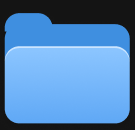
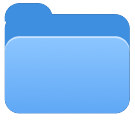
Flebo trust-failures figure rebuilt; case study footer fixes
- Flebo: the four trust failures are now live notes over the lab listing
  and the Basic Health Package card (two WebP assets), scaled as one
  composition; on narrow screens the notes drop below as a list.
- Footers (all case studies): transparent folder icon; the icon and
  "back to the folder" link to the projects desk (new #work anchor on the
  homepage); copyright line matches "back to desk" in size and baseline;
  back_to_folder_click tracked.
- Kargo: footer in the closing section's lime with dark text, zig-zag
  overlaps the black section so no page background shows between teeth.
- Kargo before/after: phones, chips and captions aligned to the text edge.

diff --git a/case.css b/case.css
@@ -131,13 +131,19 @@ img { max-width: none; }
 .next { display: flex; align-items: center; gap: 34px; padding: 120px 0 150px; }
 .folder { width: 84px; }
 .next-label { font-size: 16px; font-weight: 600; }
-.next-label span { color: #8d8d8d; font-weight: 400; }
+.next-label .folder-link { color: #8d8d8d; font-weight: 400; text-decoration: none; }
+.folder-link { flex: none; line-height: 0; }
+.next-label .folder-link, .next-link, .foot-row a { text-underline-offset: 4px; }
+.next-label .folder-link:hover, .next-link:hover, .foot-row a:hover { text-decoration: underline; }
+.folder { height: auto; transition: transform 0.2s ease; }
+.folder-link:hover .folder { transform: translateY(-3px); }
 .next-link { display: inline-block; margin-top: 10px; font-size: clamp(36px, 4vw, 58px); color: #fff; text-decoration: none; letter-spacing: -1px; }
 .foot-row {
   display: flex; justify-content: space-between; align-items: center;
   border-top: 1px solid rgba(255, 255, 255, 0.14); padding: 26px 0 34px; font-size: 14px; color: #9a9a9a;
 }
 .foot-row a { color: #d8d8d8; text-decoration: none; }
+.cs .foot-row p { margin: 0; font-size: 14px; line-height: 1.4; } /* same size and baseline as "back to desk" */
 
 /* reveals */
 @media (prefers-reduced-motion: no-preference) {
@@ -331,10 +337,11 @@ img { max-width: none; }
 
 /* Kargo360 page accents: peach heading highlight, red footer */
 body.kargo h2.hl { background: #fcc8a3; }
-body.kargo .zig { background: conic-gradient(from 135deg at 50% 0%, #ee4a4a 90deg, #0000 0) 0 0 / 64px 30px repeat-x; margin-top: 0; }
-body.kargo .cs-footer { background: #ee4a4a; }
-body.kargo .foot-row { border-top-color: rgba(255, 255, 255, 0.35); color: #ffe3e3; }
-body.kargo .foot-row a, body.kargo .next-label span { color: #ffe3e3; }
+body.kargo .zig { background: conic-gradient(from 135deg at 50% 0%, #d6e03d 90deg, #0000 0) 0 0 / 64px 30px repeat-x; margin-top: -30px; position: relative; } /* overlaps the closing section so black fills the gaps */
+body.kargo .cs-footer { background: #d6e03d; color: #141414; } /* the lime of "right complexity visible" */
+body.kargo .next-link { color: #141414; }
+body.kargo .foot-row { border-top-color: rgba(20, 20, 20, 0.25); color: #3a3d12; }
+body.kargo .foot-row a, body.kargo .next-label .folder-link { color: #3a3d12; }
 body.kargo .closing { margin-top: 110px; }
 .stats.divided .stat { padding-left: 22px; border-left: 3px solid #e02020; }
 .stats.divided .stat:first-child { padding-left: 0; border-left: 0; }
@@ -351,20 +358,21 @@ h3.green { color: #2e7d32; }
 
 /* before / after: two phones side by side, each with a chip tag and its caption beneath */
 .ba { display: grid; grid-template-columns: 1fr 1fr; gap: 40px; margin-top: 44px; }
-.ba figure { padding-left: 32px; }
 .ba-tag {
   display: inline-block; padding: 3px 10px; background: #111; color: #fff;
   font-size: 12px; font-weight: 700; letter-spacing: 2px; text-transform: uppercase;
 }
 .ba-tag.after { background: #2e5e3a; }
-.ba img { display: block; width: 356px; max-width: 100%; height: auto; margin-top: 18px; }
+/* the frame images carry ~3.8% transparent margin left of the side buttons; pull it back
+   so the phone lines up with the chip and caption on the text edge */
+.ba img { display: block; width: 356px; max-width: 100%; height: auto; margin-top: 18px; translate: -3.8% 0; }
 .ba .cap { max-width: 340px; margin-top: 22px; }
 .ba .cap h6 { font-size: 20px; font-weight: 700; letter-spacing: -0.2px; }
 .cs .ba .cap p { margin-top: 6px; font-size: 15.5px; line-height: 1.5; color: #55534c; }
 
 /* the delete dialog, in the same phone frame */
 body.kargo .side-fig { grid-template-columns: 360px 1fr; align-items: center; }
-body.kargo .side-fig .fig { width: 100%; height: auto; }
+body.kargo .side-fig .fig { width: 100%; height: auto; translate: -3.8% 0; }
 body.kargo .annots div { border-left-color: #d6e03d; padding-left: 20px; margin-top: 24px; }
 body.kargo .annots h6 { font-size: 18px; }
 .cs.kargo .annots p { font-size: 15.5px; }
@@ -426,7 +434,6 @@ body.kargo .notes h5 { font-size: 17px; }
 
 @media (max-width: 900px) {
   .ba { grid-template-columns: 1fr; gap: 56px; }
-  .ba figure { padding-left: 0; }
   body.kargo .side-fig { grid-template-columns: 1fr; }
   body.kargo .side-fig .fig { max-width: 320px; }
   .obj-row { grid-template-columns: 1fr; gap: 6px; }
@@ -438,3 +445,37 @@ body.kargo .rules-list h5::before, body.kargo .notes h5::before {
   vertical-align: 0.18em; background: #1faa3b;
 }
 body.kargo .notes h5::before { width: 7px; height: 7px; margin-right: 10px; background: #2e5e3a; }
+
+/* ===== Flebo: "four trust failures" — notes pinned over the lab listing + package card =====
+   Everything is placed on a 1810x935 design canvas (percentages) and sized in cqw of the
+   figure, so the composition scales as one piece. 1 design px = 0.05525cqw. */
+.tf { position: relative; container-type: inline-size; }
+.tf-stage { position: relative; aspect-ratio: 1810 / 935; }
+.tf-stage img { position: absolute; display: block; height: auto; }
+.tf-shot { left: 19.448%; top: 5.027%; width: 61.547%; }
+.tf-card { left: 1.215%; top: 52.193%; width: 23.094%; border-radius: 1.3cqw; }
+.tf-note {
+  position: absolute; left: var(--x); top: var(--y); width: var(--w);
+  padding: var(--pt, 0.95cqw) var(--pr, 1.99cqw) var(--pb, 1.1cqw) var(--pl, 1.99cqw); background: #fdf5a5;
+}
+.tf-note::before {  /* a strip of tape */
+  content: ""; position: absolute; left: var(--tape, 40%); top: -0.61cqw;
+  width: 3.87cqw; height: 0.72cqw; background: rgba(247, 230, 150, 0.8);
+}
+.tf-note:not([style*="--tape"])::before { display: none; }
+.tf-note h5 { position: relative; font-size: 1.265cqw; line-height: 1.3; font-weight: 700; letter-spacing: -0.02em; color: #141414; }
+.tf-note h5::before {
+  content: ""; position: absolute; left: var(--bx, -1.1cqw); top: 0.42em; width: 0.77cqw; height: 0.77cqw; background: #dd524c;
+}
+.cs .tf-note p { margin-top: 0.5cqw; max-width: none; font-size: 1.1cqw; line-height: 1.42cqw; color: #5f5d54; }
+.tf-corner { position: absolute; left: 18.343%; top: 2.995%; width: 1.99cqw; height: 1.99cqw; border-top: max(2px, 0.17cqw) solid #141414; border-left: max(2px, 0.17cqw) solid #141414; }
+
+/* narrow screens: the notes can't stay legible at composition scale, so they
+   drop below the pictures as a list */
+@media (max-width: 900px) {
+  .tf-note { position: relative; left: auto; top: auto; width: auto; margin-top: 14px; padding: 14px 18px 16px 34px; }
+  .tf-note::before { display: none; }
+  .tf-note h5 { font-size: 16px; }
+  .tf-note h5::before { left: -18px; width: 9px; height: 9px; }
+  .cs .tf-note p { margin-top: 6px; font-size: 15px; line-height: 1.45; }
+}

diff --git a/flebo.html b/flebo.html
@@ -9,8 +9,8 @@
 <link rel="preconnect" href="https://fonts.googleapis.com">
 <link rel="preconnect" href="https://fonts.gstatic.com" crossorigin>
 <link href="https://fonts.googleapis.com/css2?family=Archivo:wght@400;600;700;800&display=swap" rel="stylesheet">
-<link rel="stylesheet" href="case.css?v=20260923i">
-<script src="analytics.js?v=20260923b" defer></script>
+<link rel="stylesheet" href="case.css?v=20260923o">
+<script src="analytics.js?v=20260923c" defer></script>
 </head>
 <body class="cs" data-page="flebo" data-case="Flebo">
 <div class="cs-page">
@@ -79,7 +79,19 @@
     <h4>What we discovered</h4>
     <p>User were actively looking for packages but it was too difficult to understand what package is providing which test and even someone moves forward after selecting a package it was the lab listing page which shows multiple labs providing the selected package. But every lab is providing different number of tests and pricing is also different.</p>
     <blockquote>The audit found four trust failures, all variations of one theme &mdash; numbers without context:</blockquote>
-    <img class="fig" src="assets/flebo/packages.jpg" alt="Flebo package cards annotated with the four trust failures">
+    <!-- The four trust failures, pinned as notes over the lab listing and the package card
+         (positions on a 1810x935 design canvas) -->
+    <figure class="fig tf">
+      <div class="tf-stage">
+        <img class="tf-shot" src="assets/flebo/listing.webp" width="1600" height="961" loading="lazy" alt="Flebo lab listing for Basic Health Monitoring Tests: removable test pills above a table of labs, each offering its own version of the package with a different test count and price">
+        <img class="tf-card" src="assets/flebo/package-card.webp" width="1029" height="687" loading="lazy" alt="Basic Health Package card: Test Included: 50, up to 62% off, ₹1300 now ₹499">
+      </div>
+      <div class="tf-note" style="--x:1.215%;--y:7.273%;--w:22.376%;--tape:41%"><h5>the hierarchy was invisible.</h5><p>Those pills were test categories; the 58 were parameters inside. The data existed, but the structure was never disclosed.</p></div>
+      <div class="tf-note" style="--x:70.276%;--y:2.46%;--w:28.287%;--tape:36%;--pt:2.1cqw;--pb:1.66cqw;--pl:2.82cqw;--pr:1.66cqw;--bx:-1.38cqw"><h5>the edit feature created fear, not flexibility.</h5><p>Removable pills let non-experts delete tests silently with no confirmation or undo.</p></div>
+      <div class="tf-note" style="--x:11.436%;--y:79.572%;--w:22.431%;--pl:2.15cqw;--pr:2.76cqw"><h5>&ldquo;50 tests&rdquo; meant nothing.</h5><p>Package cards showed a high test count, but detail pages had only 5&ndash;6 pills. Claiming 50 but showing 6 feels deceptive in healthcare.</p></div>
+      <div class="tf-note" style="--x:71.768%;--y:63.957%;--w:25.635%;--tape:36%;--pl:2.93cqw;--pr:3.87cqw;--bx:-1.38cqw"><h5>labs vary, and nobody said so.</h5><p>One lab's CBC has 18 parameters, another's 24. Users thought they were comparing like for like but felt misled after choosing based on price.</p></div>
+      <span class="tf-corner" aria-hidden="true"></span>
+    </figure>
 
     <h2 class="hl">What I learned and fixed</h2>
     <h3>Phase 1: Solving the Clarity Gap</h3>
@@ -206,9 +218,9 @@
   <footer class="cs-footer">
     <div class="wrap">
       <div class="next">
-        <img class="folder" src="assets/flebo/folder.png" alt="">
+        <a class="folder-link" href="./#work" aria-label="Back to the projects folder"><img class="folder" src="assets/flebo/folder.png?v=2" alt="" width="135" height="120"></a>
         <div>
-          <p class="next-label">next up - Menteiz Aviation &nbsp;<span>/ back to the folder</span></p>
+          <p class="next-label">next up - Menteiz Aviation &nbsp;<a class="folder-link" href="./#work">/ back to the folder</a></p>
           <a class="next-link" href="menteiz.html">Menteiz Aviation &rarr;</a>
         </div>
       </div>

diff --git a/menteiz.html b/menteiz.html
@@ -9,8 +9,8 @@
 <link rel="preconnect" href="https://fonts.googleapis.com">
 <link rel="preconnect" href="https://fonts.gstatic.com" crossorigin>
 <link href="https://fonts.googleapis.com/css2?family=Archivo:wght@300;400;600;700;800&family=Homemade+Apple&display=swap" rel="stylesheet">
-<link rel="stylesheet" href="case.css?v=20260923i">
-<script src="analytics.js?v=20260923b" defer></script>
+<link rel="stylesheet" href="case.css?v=20260923o">
+<script src="analytics.js?v=20260923c" defer></script>
 </head>
 <body class="cs" data-page="menteiz" data-case="Menteiz Aviation">
 <div class="cs-page">
@@ -254,9 +254,9 @@
   <footer class="cs-footer">
     <div class="wrap">
       <div class="next">
-        <img class="folder" src="assets/flebo/folder.png" alt="">
+        <a class="folder-link" href="./#work" aria-label="Back to the projects folder"><img class="folder" src="assets/flebo/folder.png?v=2" alt="" width="135" height="120"></a>
         <div>
-          <p class="next-label">next up - Kargo360 &nbsp;<span>/ back to the folder</span></p>
+          <p class="next-label">next up - Kargo360 &nbsp;<a class="folder-link" href="./#work">/ back to the folder</a></p>
           <a class="next-link" href="kargo360.html">Kargo360 &rarr;</a>
         </div>
       </div>

diff --git a/kargo360.html b/kargo360.html
@@ -9,8 +9,8 @@
 <link rel="preconnect" href="https://fonts.googleapis.com">
 <link rel="preconnect" href="https://fonts.gstatic.com" crossorigin>
 <link href="https://fonts.googleapis.com/css2?family=Archivo:wght@300;400;600;700;800&family=Homemade+Apple&display=swap" rel="stylesheet">
-<link rel="stylesheet" href="case.css?v=20260923i">
-<script src="analytics.js?v=20260923b" defer></script>
+<link rel="stylesheet" href="case.css?v=20260923o">
+<script src="analytics.js?v=20260923c" defer></script>
 </head>
 <body class="cs kargo" data-page="kargo360" data-case="Kargo360">
 <div class="cs-page">
@@ -252,9 +252,9 @@
   <footer class="cs-footer">
     <div class="wrap">
       <div class="next">
-        <img class="folder" src="assets/flebo/folder.png" alt="">
+        <a class="folder-link" href="./#work" aria-label="Back to the projects folder"><img class="folder" src="assets/flebo/folder.png?v=2" alt="" width="135" height="120"></a>
         <div>
-          <p class="next-label">next up - Flebo &nbsp;<span>/ back to the folder</span></p>
+          <p class="next-label">next up - Flebo &nbsp;<a class="folder-link" href="./#work">/ back to the folder</a></p>
           <a class="next-link" href="flebo.html">Flebo &rarr;</a>
         </div>
       </div>

diff --git a/index.html b/index.html
@@ -9,8 +9,8 @@
 <link rel="preconnect" href="https://fonts.googleapis.com">
 <link rel="preconnect" href="https://fonts.gstatic.com" crossorigin>
 <link href="https://fonts.googleapis.com/css2?family=Archivo:wght@400;500;600;700&family=Homemade+Apple&family=Poppins&display=swap" rel="stylesheet">
-<link rel="stylesheet" href="styles.css?v=20260923a">
-<script src="analytics.js?v=20260923b" defer></script>
+<link rel="stylesheet" href="styles.css?v=20260923b">
+<script src="analytics.js?v=20260923c" defer></script>
 </head>
 <body data-page="home">
 <div class="stage">
@@ -54,6 +54,7 @@
   <div class="hero-photo-7-wrap rot-wrap"><img class="hero-photo-7" src="assets/hero-photo-2.png" alt=""></div>
 
   <!-- ===== Projects section (macOS desktop theme) ===== -->
+  <span id="work" class="section-anchor" style="top:1694px" aria-hidden="true"></span><!-- target of the case studies' "back to the folder" (./#work) -->
   <img class="projects-bg" src="assets/projects-bg.jpg" alt="">
   <div class="projects-heading">
     <h2 class="projects-title">projects</h2>

diff --git a/styles.css b/styles.css
@@ -143,6 +143,8 @@ a { color: inherit; text-decoration: none; }
 /* ===== Projects — macOS desktop theme (1694 – 2738) =====
    Geometry and imagery from the Figma frame; bitmaps exported at 2x. */
 
+.section-anchor { position: absolute; left: 0; width: 1px; height: 1px; pointer-events: none; }
+
 .projects-bg { position: absolute; left: -5px; top: 1694px; width: 1449px; height: 1044px; object-fit: cover; }
 
 .projects-heading { position: absolute; left: 50%; transform: translateX(-50%); top: 1741px; text-align: center; }

diff --git a/analytics.js b/analytics.js
@@ -60,6 +60,7 @@
     if (a.matches('.pj-slide') && proj) return track(proj + '_case_study_click');
 
     // Case study pages
+    if (a.matches('.folder-link')) return track('back_to_folder_click');
     if (a.matches('.back') || a.matches('.foot-row a')) return track('back_to_desk_click');
     if (a.matches('.next-link') && proj) return track(proj + '_next_up_click');
     if (a.matches('.video-toggle')) return track(page + (a.getAttribute('aria-label') === 'Play video' ? '_video_play_click' : '_video_pause_click'));
